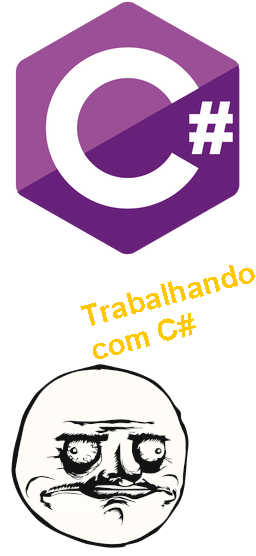
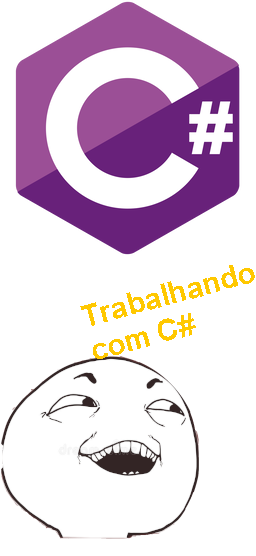
added input ranking

Changed region(s): [[0.0, 0.6421, 0.7812, 1.0]]

diff --git a/codigo-refatorado/AluraStickers/src/App.java b/codigo-refatorado/AluraStickers/src/App.java
@@ -2,90 +2,38 @@ import java.io.InputStream;
 import java.net.URL;
 import java.util.List;
 import java.util.Map;
+import java.util.Scanner;
 
 public class App {
     public static void main(String[] args) throws Exception {
-        // fazer uma conexão HTTP (Protocolo de comunicação da web)
-        // buscar os filmes e extrair, parsiar, pegar o que realmente interessa
-        // titulo, poster, classificação
-        // exibir e manipular os dados 
-
-        //String url = "https://api.nasa.gov/planetary/apod?api_key=DEMO_KEY&start_date=2022-06-16&end_date=2022-06-18";
-        //ExtratorConteudo extrator = new ExtratorConteudoNasa();
-
         String url = "https://alura-linguagem-api.herokuapp.com/Linguagens";
         var extrator = new ExtratorConteudoIMDB();
 
         var http = new ClienteHttp();
         String json = http.buscaDados(url);
         
-        //System.out.println(listaDeFilmes.size());
-        //System.out.println(listaDeFilmes.get(0));
-        
         List<Conteudo> conteudos = extrator.extraiConteudos(json);
 
         var geradorFigurinha = new GeradorFigurinhas();
-
-        /*
-        for (Map<String,String> filme : listaDeFilmes) {
-            //System.out.println("\u001B[44m \u001b[1m" + filme.get("title") + "\u001B[0m");
-
-            String titulo = filme.get("title");
-            String urlImagem = filme.get("image");
-            
-            //TerminalColorido txtColorido = new TerminalColorido();
-
-            InputStream inputStream = new URL(urlImagem).openStream();
-            String nomeArquivo = titulo + ".png";
-            
-            String estado = "";
-
-            switch (filme.get("imDbRating")) {
-                case "8.7":
-                System.out.println("\u001B[33m \u001b[1m" + " * * * ");
-                estado = "reprovado";
-                    break;
-                case "8.8":
-                System.out.println("\u001B[33m \u001b[1m" + " * * * * ");
-                estado = "reprovado";
-                    break;
-                case "8.9":
-                System.out.println("\u001B[33m\u001b[1m" + " * * * * ");
-                estado = "reprovado";
-                    break;
-                case "9.0":
-                System.out.println("\u001B[33m \u001b[1m" + " * * * * * ");
-                estado = "aprovado";
-                    break;
-                default:
-                    break;
-            }
-            geradorFigurinha.criarFigurinhas(inputStream, nomeArquivo, estado);
-
-            System.out.println(titulo + filme.get("imDbRating"));
-            System.out.println();
-            
-            //System.out.println(filme.get("imDbRating") + "[char]::ConvertFromUtf32(0x2B50)");
-        }
-        */
         
         for(int i = 0; i < 4; i++){
 
             Conteudo conteudo = conteudos.get(i);
 
             String estado = "";
-            int rank = Integer.parseInt(conteudo.getRanking());
+            int rank; //= Integer.parseInt(conteudo.getRanking());
+            
+            Scanner sc = new Scanner(System.in);
+            System.out.println("ESCOLHA A NOTA: ");
+            rank = sc.nextInt();
             System.out.println(rank);
             if(rank == 1){
                 System.out.println("\u001B[33m \u001b[1m" + " * * * * * ");
-                System.out.println("Foi aprovado!!!!");
                 estado = "aprovado";
             }else{
                 System.out.println("\u001B[33m \u001b[1m" + " * * * ");
                 estado = "reprovado";
             }
-
-
         
             InputStream inputStream = new URL(conteudo.getUrlImagem()).openStream();
 
@@ -95,7 +43,6 @@ public class App {
 
             System.out.println(conteudo.getTitulo());
             System.out.println();
-
         }
     }
 }

diff --git a/codigo-refatorado/AluraStickers/src/GeradorFigurinhas.java b/codigo-refatorado/AluraStickers/src/GeradorFigurinhas.java
@@ -108,7 +108,7 @@ public class GeradorFigurinhas {
       // escrever a nova imagem em um arquivo
       //ImageIO.write(novaImagem, "png", new File("C://Users/sdnxf/Documents/NetBeansProjects/Imersao-Java-Stickers-Alura/AluraStickers/saida/figurinha.png"));
 
-      ImageIO.write(novaImagem, "png", new File("C://Users/sdnxf/Documents/NetBeansProjects/Imersao-Java-Stickers-Alura/Imersao-Java-Stickers-Alura/codigo-refatorado/AluraStickers/saida/" + nomeArquivo));
+      ImageIO.write(novaImagem, "png", new File("saida/" + nomeArquivo));
     } 
     
 }

diff --git a/README.md b/README.md
@@ -19,7 +19,7 @@
 ### Consumir o endpoint de filmes mais populares da API do IMDB. ✔
 ### Usar sua criatividade para deixar a saída dos dados mais amigável. ✔
 ### Colocar a chave da API do IMDB em algum lugar fora do código. ✔
-### Criar alguma maneira para você dar uma avaliação ao filme. puxando de algum arquivo de configuração ou pedindo a avaliação para o usuário digitar no terminal.
+### Criar alguma maneira para você dar uma avaliação ao filme. puxando de algum arquivo de configuração ou pedindo a avaliação para o usuário digitar no terminal. ✔
 
 ### Mudar o JsonParser para usar uma biblioteca de parsing de JSON como Jackson ou GSON
 <p align="center">
